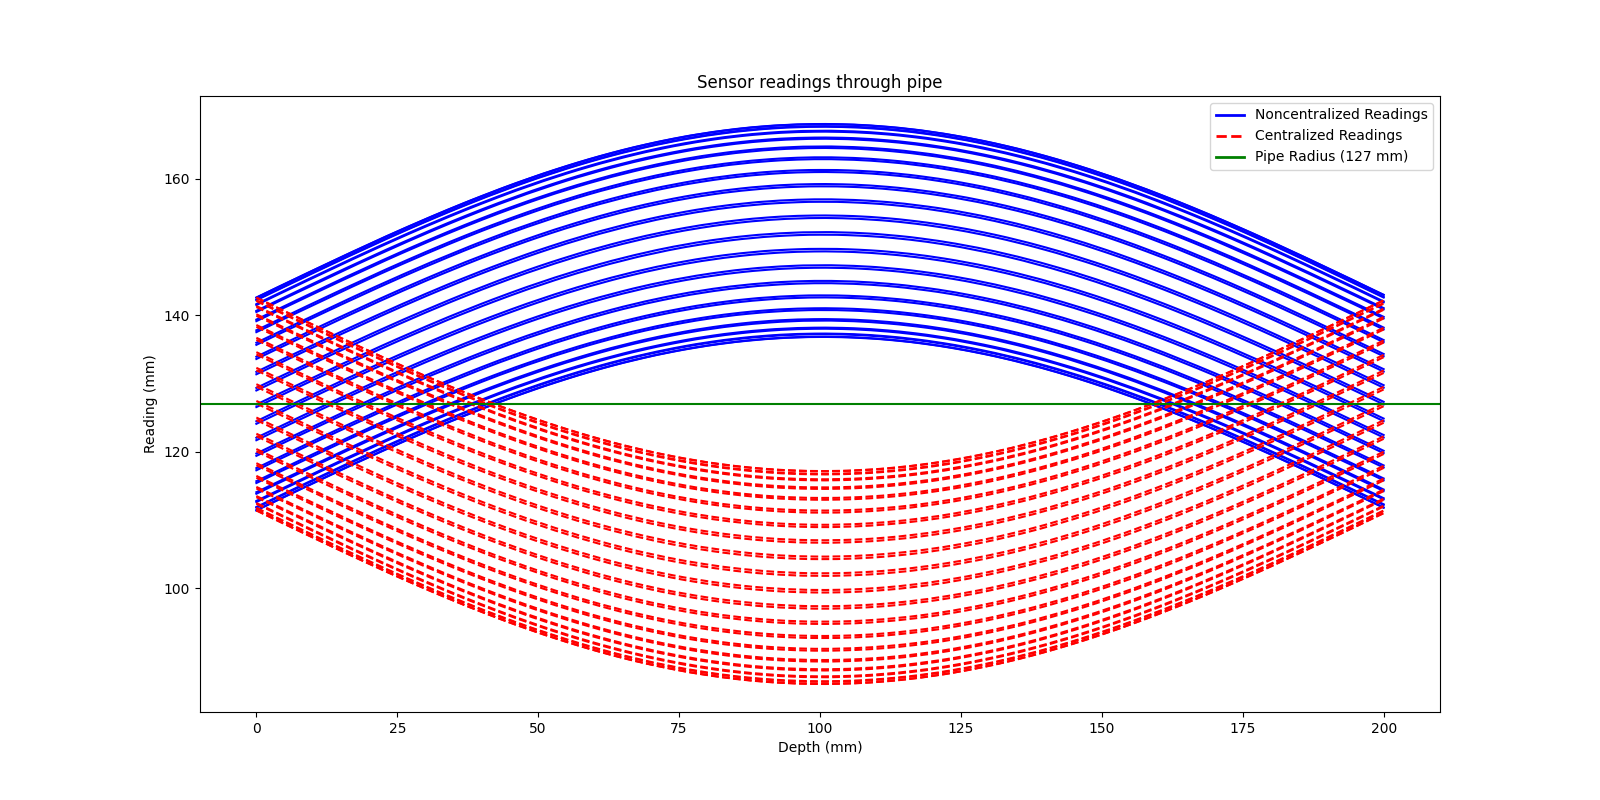
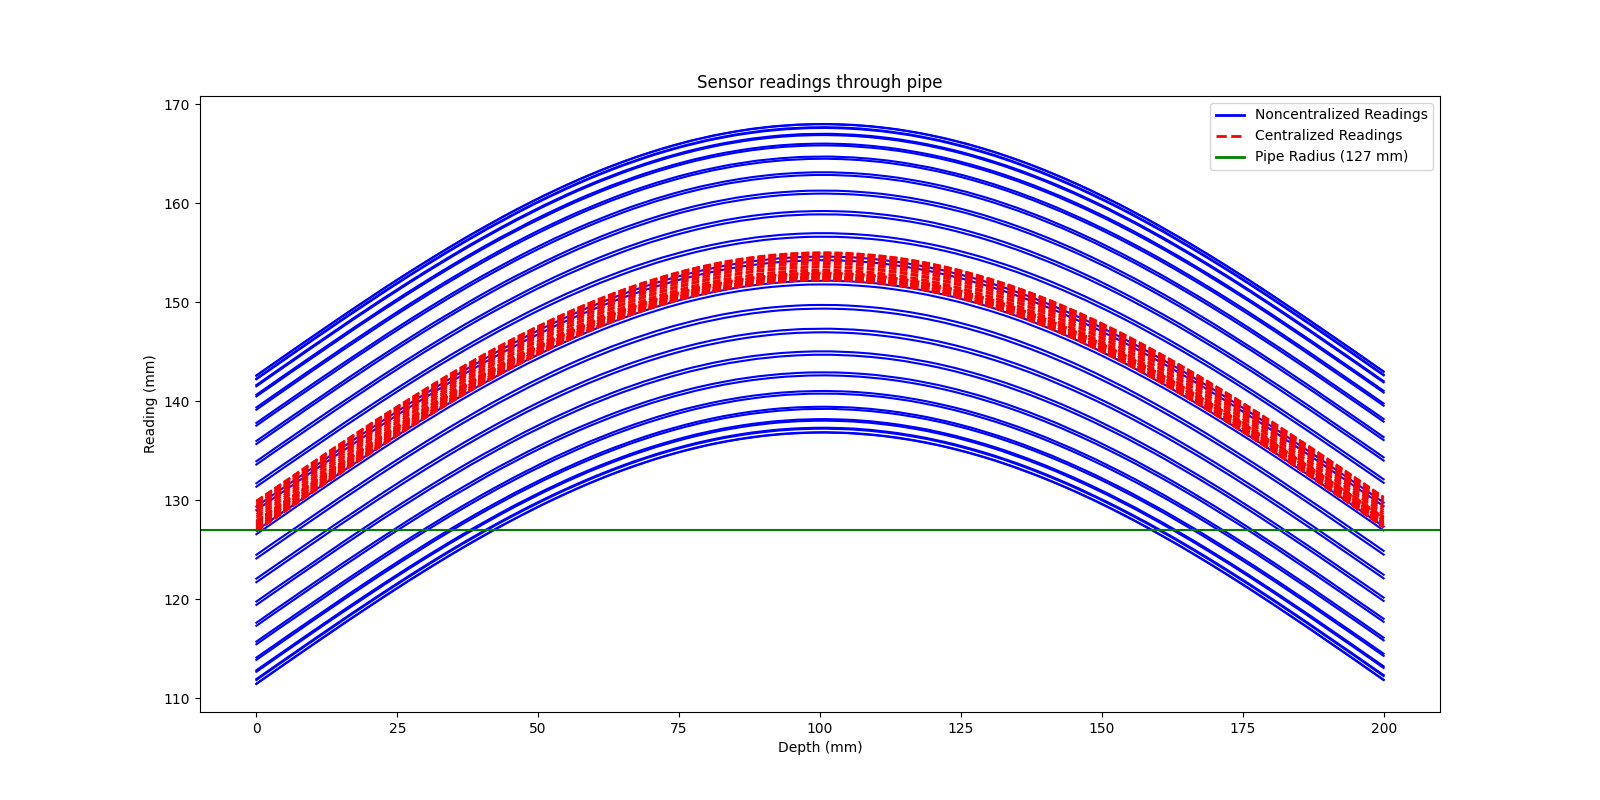
FINALE

diff --git a/mit.cpp b/mit.cpp
@@ -105,8 +105,10 @@ void mit::load_readings(string filename)
 point mit::calculate_offset_vector_of_sample(const int depth)
 {
     point resultant_offset_vector{0, 0};
-    reading min_reading{0, 0, 0, false};
-    reading max_reading{0, 0, 0, false};
+    reading min_reading;
+    reading max_reading;
+    min_reading.distance = 999999;
+    max_reading.distance = -999999;
     for (size_t finger = 0; finger < readings[depth].size(); finger++)
     {
 
@@ -115,26 +117,59 @@ point mit::calculate_offset_vector_of_sample(const int depth)
         double cos_value = cos_values[finger];
         double sin_value = sin_values[finger];
 
-        point contact_point{0, 0};
-        contact_point.x = cos_value * distance;
-        contact_point.y = sin_value * distance;
-
-        // Get opposite finger readings
+        // Opposite finger readings
         int opposite_finger = (finger + no_of_fingers / 2) % no_of_fingers;
         double distance_opposite = readings[depth][opposite_finger].distance;
         double opposite_cos_value = cos_values[opposite_finger];
         double opposite_sin_value = sin_values[opposite_finger];
 
-        point opposite_contact_point{0, 0};
-        opposite_contact_point.x = opposite_cos_value * distance_opposite;
-        opposite_contact_point.y = opposite_sin_value * distance_opposite;
-
         // Compare distance and distance opposite with min and max readings.
         // Update min and max accordingly. After this loop, we will have the Lmax and Lmin
         // values for given dpth.
-    }
+        if (distance > max_reading.distance)
+        {
+            max_reading.distance = distance;
+            max_reading.finger = finger;
+            min_reading.distance = distance_opposite;
+            min_reading.finger = opposite_finger;
+            continue;
+        }
+        else if (distance_opposite > max_reading.distance)
+        {
+            max_reading.distance = distance_opposite;
+            max_reading.finger = opposite_finger;
+            min_reading.distance = distance;
+            min_reading.finger = finger;
+            continue;
+        }
 
-    return resultant_offset_vector;
+        if (distance < min_reading.distance)
+        {
+            min_reading.distance = distance;
+            min_reading.finger = finger;
+            max_reading.distance = distance_opposite;
+            max_reading.finger = opposite_finger;
+            continue;
+        }
+        else if (distance_opposite < min_reading.distance)
+        {
+            min_reading.distance = distance_opposite;
+            min_reading.finger = opposite_finger;
+            max_reading.distance = distance;
+            max_reading.finger = finger;
+            continue;
+        }
+
+        // We have our max and min readings now. Lets get the angle between contact point of this reading and axis using atan2
+        point contact_point{0, 0};
+        contact_point.x = min_reading.distance * cos_values[min_reading.finger];
+        contact_point.y = min_reading.distance * sin_values[min_reading.finger];
+        double min_angle = atan2(contact_point.y, contact_point.x);
+        double xc = ((max_reading.distance - min_reading.distance) / 2) * cos(min_angle);
+        double yc = ((max_reading.distance - min_reading.distance) / 2) * sin(min_angle);
+        // (xc,yc) is the position of the tool center at this depth at its offset.
+        return {xc, yc};
+    }
 }
 
 void mit::centralize_readings(const point offset_vector)
@@ -146,6 +181,19 @@ void mit::centralize_readings(const point offset_vector)
     {
         for (size_t finger = 0; finger < readings[0].size(); finger++)
         {
+            // Create vectors to the contact point of the finger
+            point v_contact_point{0, 0};
+            v_contact_point.x = readings[depth][finger].distance * cos_values[finger];
+            v_contact_point.y = readings[depth][finger].distance * sin_values[finger];
+
+            // Add offset vector to contact point vector to get the new contact point vector
+            point new_contact_point{0, 0};
+            new_contact_point.x = pipe_center.x + v_contact_point.x + offset_vector.x;
+            new_contact_point.y = pipe_center.y + v_contact_point.y + offset_vector.y;
+
+            // Calculate the new distance from the new contact point vector
+            readings[depth][finger].distance = calculate_distance(pipe_center, new_contact_point);
+            readings[depth][finger].is_centralized = true;
         }
     }
 }
@@ -159,7 +207,7 @@ void mit::save_centralized_readings(string filename)
         {
             for (size_t finger = 0; finger < readings[0].size(); finger++)
             {
-                outputFile << readings[depth][finger].centralized_distance << " ";
+                outputFile << readings[depth][finger].distance << " ";
             }
             outputFile << endl;
         }
@@ -172,35 +220,20 @@ void mit::save_centralized_readings(string filename)
     }
 }
 
-void mit::show_readings(const bool show_centralized_readings)
+void mit::show_readings()
 {
     // Format: (depth, finger) = old reading -> new reading
     cout << fixed;
     // Show header
 
-    if (show_centralized_readings)
+    cout << "(depth, finger) = old reading" << endl;
+    for (size_t depth = 0; depth < readings.size(); depth++)
     {
-        for (size_t depth = 0; depth < readings.size(); depth++)
+        cout << "Depth / Distance from first sample: " << depth * distance_between_samples_mm << " mm" << endl;
+        for (size_t finger = 0; finger < readings[0].size(); finger++)
         {
-            cout << "Depth / Distance from first sample: " << depth * distance_between_samples_mm << " mm" << endl;
-            for (size_t finger = 0; finger < readings[0].size(); finger++)
-            {
-                cout << readings[depth][finger].distance << " -> " << readings[depth][finger].centralized_distance << endl;
-            }
-            cout << "---------------------" << endl;
+            cout << readings[depth][finger].distance << endl;
         }
-    }
-    else
-    {
-        cout << "(depth, finger) = old reading" << endl;
-        for (size_t depth = 0; depth < readings.size(); depth++)
-        {
-            cout << "Depth / Distance from first sample: " << depth * distance_between_samples_mm << " mm" << endl;
-            for (size_t finger = 0; finger < readings[0].size(); finger++)
-            {
-                cout << readings[depth][finger].distance << endl;
-            }
-            cout << "---------------------" << endl;
-        }
+        cout << "---------------------" << endl;
     }
 }

diff --git a/mit.h b/mit.h
@@ -25,7 +25,6 @@ struct reading
 {
     int finger;                  // Finger number
     double distance;             // Distance reading from the finger
-    double centralized_distance; // Distance reading from the finger after centralization
     bool is_centralized = false; // Flag to indicate if the reading is centralized
 };
 
@@ -49,7 +48,7 @@ public:
     point calculate_offset_vector_of_sample(const int depth);   // Calculate offset vector of tool from the center of the pipe
     void calculate_contact_points();                            // Calculate contact points of each finger
     void centralize_readings(const point offset_vector);        // Centralize readings with given tool offset
-    void show_readings(const bool show_centralized_readings);   // Show initial and centralized readings
+    void show_readings();                                       // Show initial and centralized readings
 };
 
 #endif // __CALIPER_TOOL_H__

diff --git a/main.cpp b/main.cpp
@@ -30,7 +30,6 @@ int main()
     point offset_vector = caliper_tool.calculate_offset_vector_of_sample(0);
     cout << "Tool offset vector from center of pipe: (" << offset_vector.x << ", " << offset_vector.y << ")" << endl;
     caliper_tool.centralize_readings(offset_vector);
-    // caliper_tool.show_readings(true);
     caliper_tool.save_centralized_readings("data" + slash + "data_centralized.txt");
 
     return 0;
